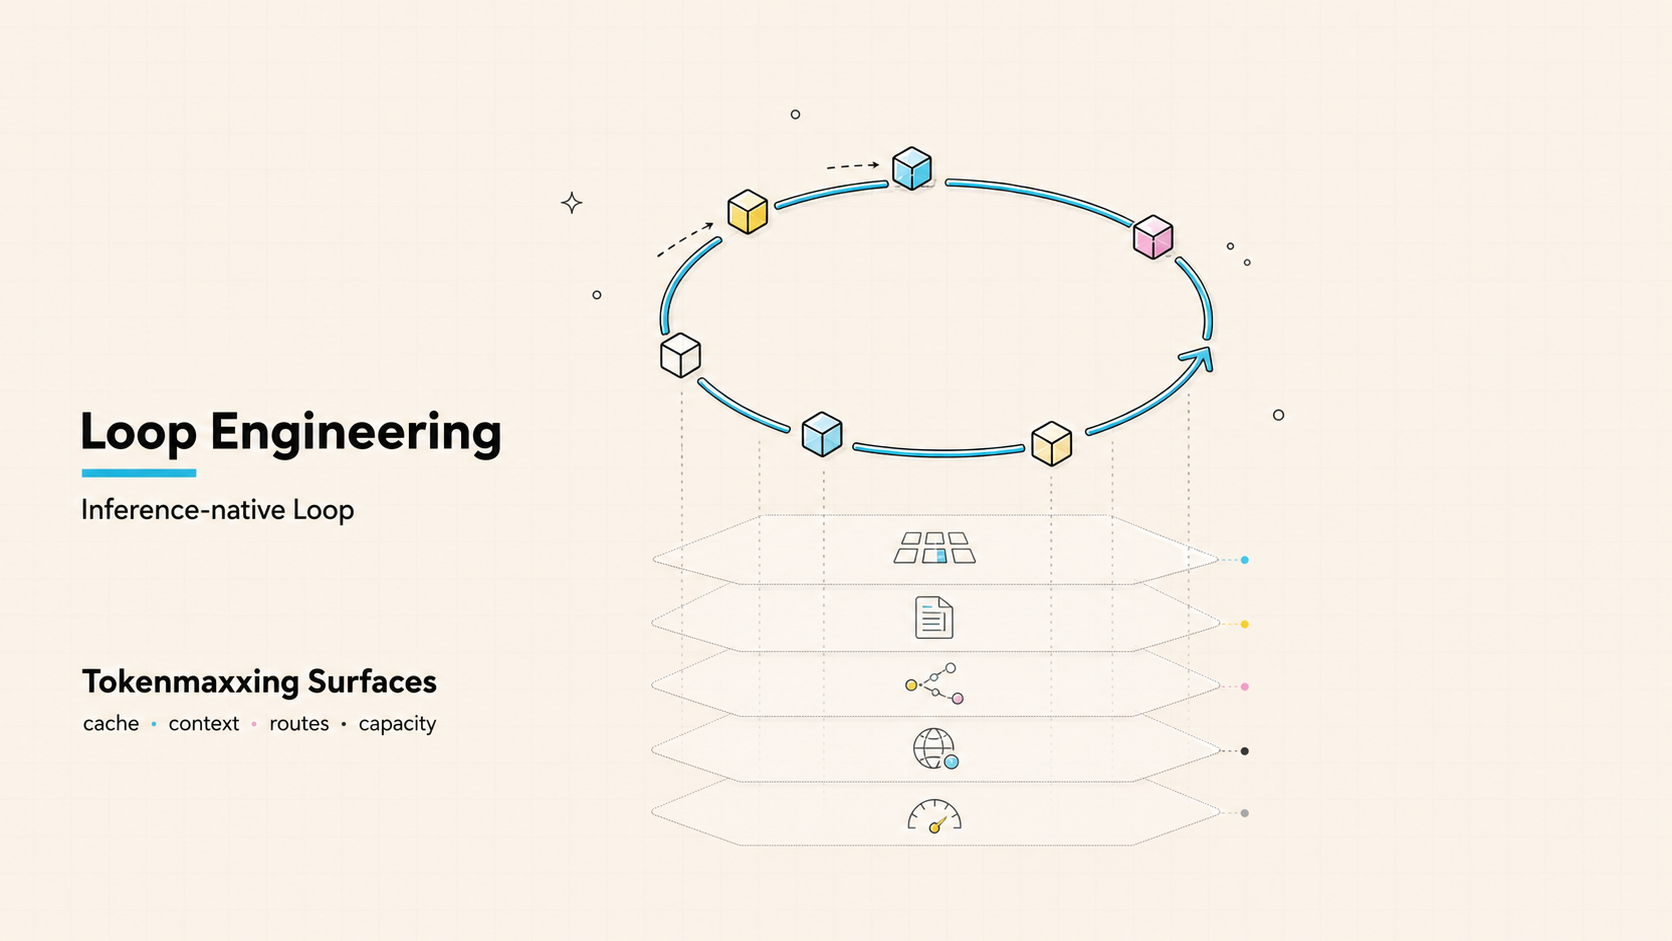
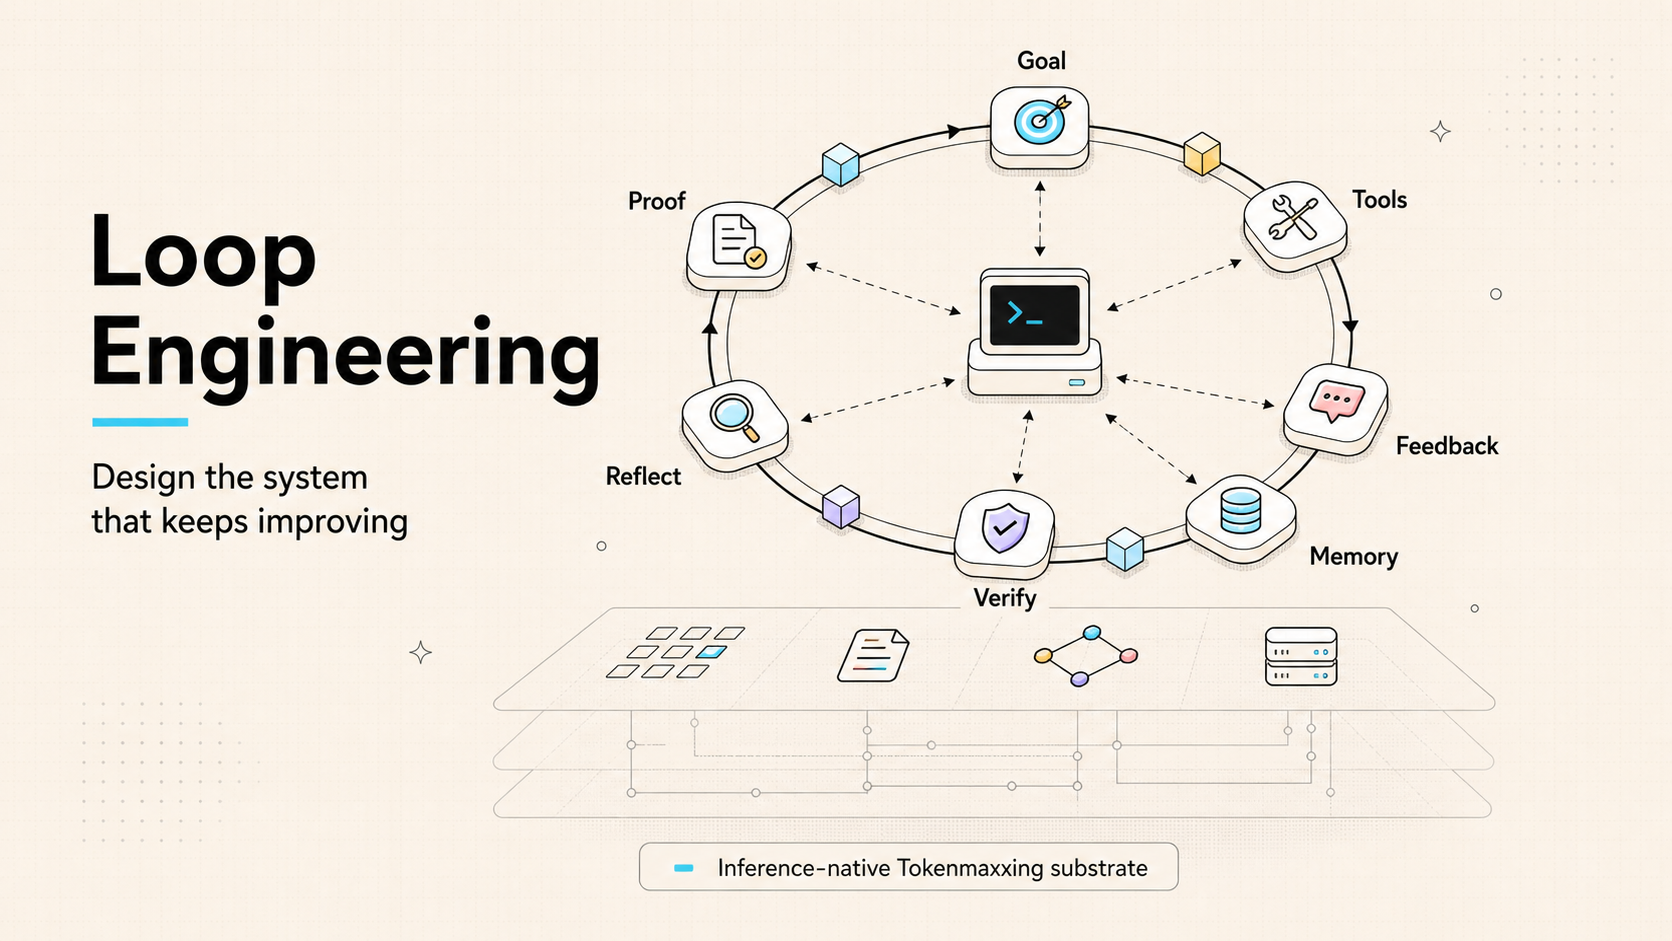
Refresh Inferoa loop engineering visuals

diff --git a/website/blog/2026-06-08-announcing-inferoa.md b/website/blog/2026-06-08-announcing-inferoa.md
@@ -22,7 +22,7 @@ That loop is also an inference workload. As turns accumulate, prompt prefixes
 drift, cache reuse collapses, stale evidence fills context, model routing gets
 harder, and serving choices start to matter.
 
-![Loop engineering needs inference-native tokenmaxxing surfaces](/img/blog/inferoa-loop-inference-workload.png)
+![Loop Engineering as a recursive system of goals, tools, feedback, memory, verification, reflection, and proof](/img/blog/inferoa-loop-inference-workload.png)
 
 That is where Loop Engineering has to become inference-native. A long-horizon
 loop needs to see the substrate it is consuming: tokens, cache, context, routes,